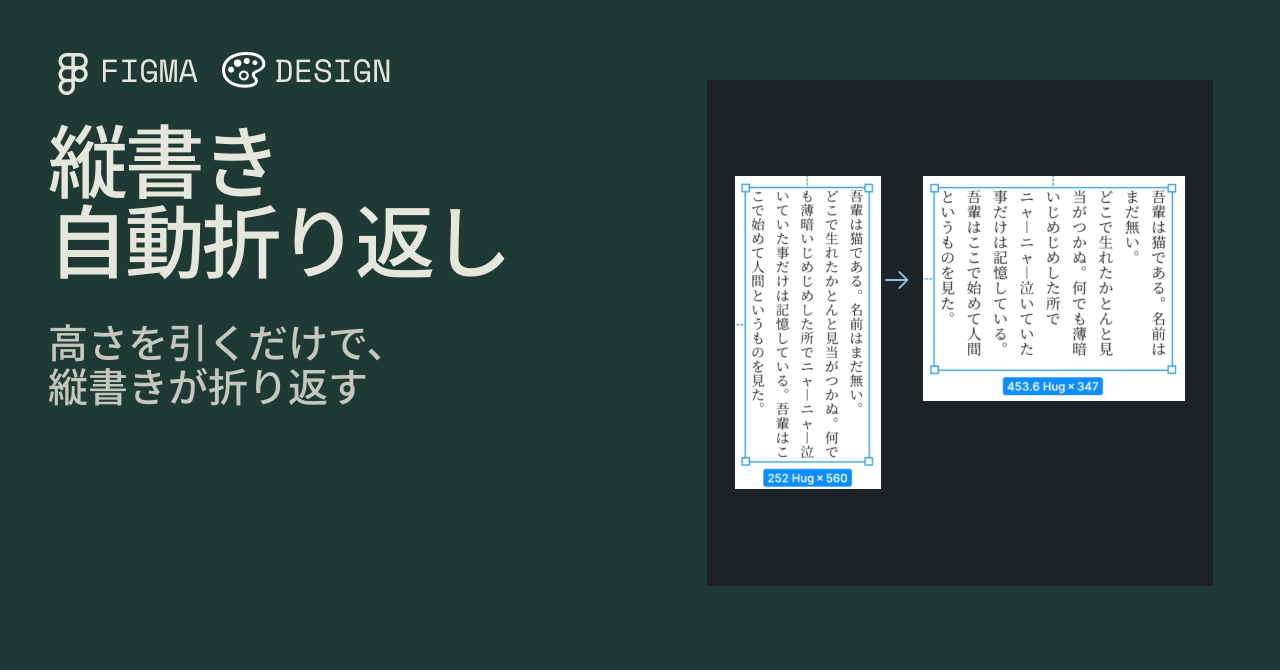
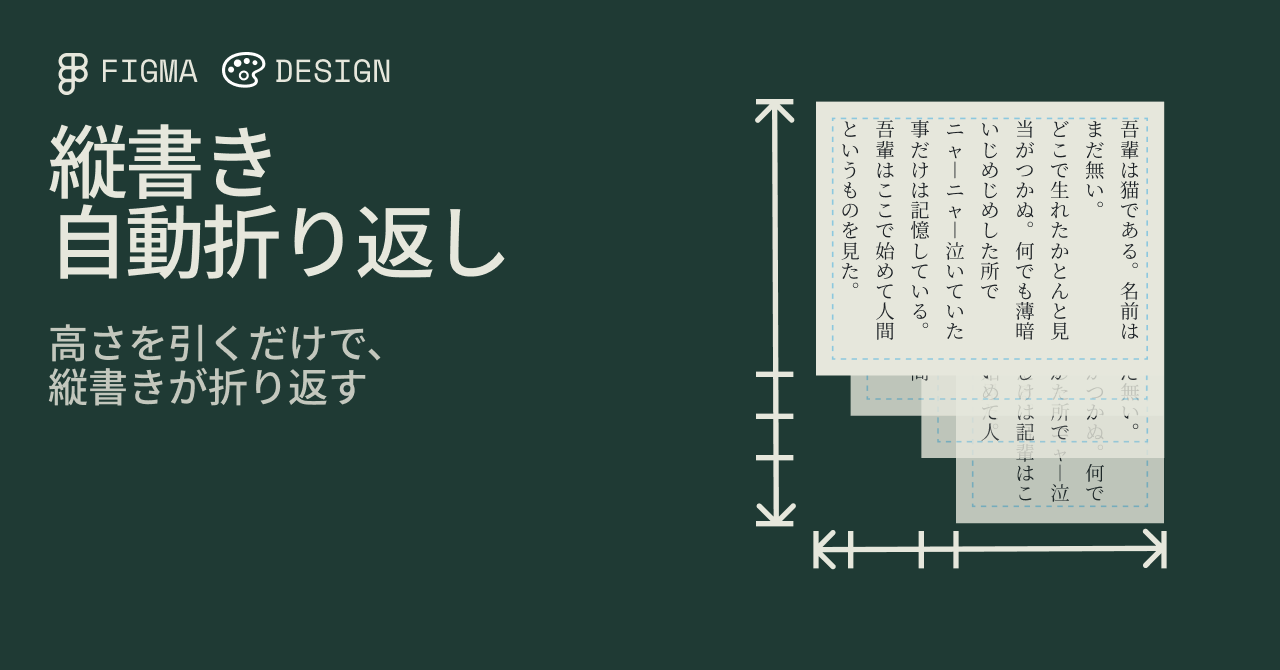
Demo video: captions in the current fonts; note covers in the chosen design
The caption cards now use Noto Sans JP Medium and Space Mono, the same as
the Figma Thumbnail v3 parts, instead of Baskerville and Hiragino Mincho.
Recordings, timings and layout are unchanged. The way to rebuild them
(captions.json, caption.html, make-video.py) now lives in
scripts/demo-video/; before, it only existed in another session's temp
folder. The videos themselves stay out of git.

The note / Substack header images (EN, JA) now use the picture from the
chosen Community cover (Figma 87:314, 87:415).

Changed region(s): [[0.5625, 0.1493, 0.9375, 0.8657]]

diff --git a/scripts/demo-video/caption.html b/scripts/demo-video/caption.html
@@ -1,0 +1,43 @@
+<!doctype html>
+<html lang="en"><head><meta charset="utf-8" />
+<title>demo video caption</title>
+<!-- One caption card for the demo video. Open as caption.html?lang=en&i=0 (lang = en | ja, i = index in captions.json).
+     Rendered at 3466x1710 (the recording size) with a transparent background, then overlaid by make-video.sh.
+     Fonts match the Figma Thumbnail v3 parts: Noto Sans JP Medium (text) and Space Mono (tag, step). -->
+<link rel="preconnect" href="https://fonts.googleapis.com" />
+<link rel="preconnect" href="https://fonts.gstatic.com" crossorigin />
+<link href="https://fonts.googleapis.com/css2?family=Noto+Sans+JP:wght@400;500&family=Space+Mono&display=block" rel="stylesheet" />
+<style>
+  * { box-sizing: border-box; margin: 0; }
+  html { zoom: 2; }
+  html, body { width: 1733px; height: 855px; background: transparent; }
+  body { position: relative; color: #E6E7DC; font-family: 'Noto Sans JP', sans-serif; font-weight: 500; }
+  /* chalkboard green #1F3A34, paper #E6E7DC, rule blue #8CC8DF */
+  .box { position: absolute; left: 585px; bottom: 54px; width: 1040px; background: rgba(31, 58, 52, .96); border-top: 2px solid #8CC8DF; padding: 24px 40px 30px; }
+  .top { display: flex; align-items: baseline; gap: 18px; }
+  .chip { font-family: 'Space Mono', monospace; font-weight: 400; font-size: 16px; letter-spacing: .08em; text-transform: uppercase; opacity: .75; }
+  .name { font-size: 30px; line-height: 1.2; letter-spacing: -.02em; }
+  .step { margin-left: auto; font-family: 'Space Mono', monospace; font-weight: 400; font-size: 18px; opacity: .7; }
+  .en { margin-top: 14px; font-size: 40px; line-height: 1.3; letter-spacing: -.02em; }
+  .ja { margin-top: 8px; font-size: 24px; line-height: 1.45; opacity: .8; }
+</style></head>
+<body>
+<div class="box">
+  <div class="top"><span class="chip">Figma plugin</span><span class="name">Vertical Japanese Text</span><span class="step" id="step"></span></div>
+  <div class="en" id="en"></div>
+  <div class="ja" id="ja"></div>
+</div>
+<script>
+  (async () => {
+    const q = new URLSearchParams(location.search);
+    const lang = q.get('lang') || 'en', i = Number(q.get('i') || 0);
+    const data = await (await fetch('captions.json')).json();
+    const set = data[lang], c = set.captions[i];
+    document.getElementById('en').textContent = c.en;
+    document.getElementById('ja').textContent = c.ja;
+    document.getElementById('step').textContent = c.step ? `${c.step} / ${set.steps}` : '';
+    await document.fonts.ready;
+    document.body.dataset.ready = '1';
+  })();
+</script>
+</body></html>

diff --git a/scripts/demo-video/make-video.py b/scripts/demo-video/make-video.py
@@ -1,0 +1,36 @@
+"""Overlay the caption cards on a demo recording (the recording itself is not changed).
+
+usage: python3 make-video.py <en|ja> <captions dir> <output.mp4>
+
+<captions dir> holds cap1.png, cap2.png, ... rendered from caption.html (3466x1710, transparent).
+Timings, texts and the source recording come from captions.json next to this file.
+"""
+import json
+import os
+import subprocess
+import sys
+
+lang, cap_dir, out = sys.argv[1], sys.argv[2], sys.argv[3]
+here = os.path.dirname(os.path.abspath(__file__))
+spec = json.load(open(os.path.join(here, 'captions.json')))[lang]
+src = os.path.expanduser(spec['source'])
+caps = spec['captions']
+
+cmd = ['ffmpeg', '-v', 'error', '-y', '-i', src]
+parts, chain = [], []
+for n, c in enumerate(caps, start=1):
+    d = round(c['end'] - c['start'], 2)
+    cmd += ['-framerate', '60', '-loop', '1', '-t', str(d), '-i', os.path.join(cap_dir, f'cap{n}.png')]
+    # fade each card in and out over 0.4 s, and shift it to its start time
+    parts.append(f'[{n}:v]format=rgba,fade=t=in:st=0:d=0.4:alpha=1,'
+                 f'fade=t=out:st={round(d - 0.4, 2)}:d=0.4:alpha=1,setpts=PTS+{c["start"]}/TB[c{n}]')
+prev = '0:v'
+for n in range(1, len(caps) + 1):
+    chain.append(f'[{prev}][c{n}]overlay=0:0:eof_action=pass[v{n}]')
+    prev = f'v{n}'
+filt = ';'.join(parts + chain) + f';[{prev}]format=yuv420p[v]'
+cmd += ['-filter_complex', filt, '-map', '[v]', '-an', '-c:v', 'libx264', '-crf', '20',
+        '-preset', 'medium', '-r', '60', '-movflags', '+faststart', out]
+r = subprocess.run(cmd, capture_output=True, text=True)
+print('exit', r.returncode, r.stderr[-400:])
+sys.exit(r.returncode)

diff --git a/scripts/demo-video/README.md b/scripts/demo-video/README.md
@@ -1,0 +1,31 @@
+# デモ動画のキャプション / Demo video captions
+
+デモ動画（英語版・日本語版）は、画面の録画にキャプションの帯を重ねて作る。録画そのものは変えない。<br>
+The demo videos (EN and JA) are screen recordings with caption cards overlaid. The recordings themselves are not changed.
+
+| ファイル / File | 中身 / Contents |
+|---|---|
+| `captions.json` | 元の録画、出力のファイル名、各キャプションの時刻と文言（英・日）。<br>Source recording, output name, and each caption's timing and text. |
+| `caption.html` | キャプション 1 枚。`caption.html?lang=en&i=0` で開くと、`captions.json` の文言が入る。<br>One caption card; `?lang=en&i=0` fills it from `captions.json`. |
+| `make-video.py` | キャプションの PNG を、時刻どおりに録画へ重ねる（0.4 秒のフェード）。<br>Overlays the caption PNGs on the recording at their times (0.4 s fades). |
+
+## 書体 / Fonts
+Figma の部品（Thumbnail v3）と同じ。本文は Noto Sans JP Medium、タグ「FIGMA PLUGIN」と「1 / 6」は Space Mono。この Mac には入っていないので、`caption.html` は Google Fonts から読み込む（撮るときにネットが要る）。<br>
+Same as the Figma Thumbnail v3 parts: Noto Sans JP Medium for text, Space Mono for the tag and step number. They are not installed on this Mac, so `caption.html` loads them from Google Fonts (network needed when rendering).
+
+## 作り直し方 / How to rebuild
+1. このフォルダを配信する（例: `python3 -m http.server 8765`）。`fetch('captions.json')` を使うので、ファイルを直接開くのでは動かない。<br>
+   Serve this folder (e.g. `python3 -m http.server 8765`); `caption.html` fetches `captions.json`, so `file://` does not work.
+2. ブラウザで 3466×1710 のビューポートにして、各キャプションを背景を透明にして撮る（Playwright なら `page.screenshot({ omitBackground: true })`）。英語は 7 枚、日本語は 5 枚。`out/captions/en/cap1.png …` のように保存する。<br>
+   Render each card at a 3466x1710 viewport with a transparent background (Playwright: `omitBackground: true`): 7 for EN, 5 for JA, saved as `out/captions/en/cap1.png …`.
+3. 重ねる。<br>
+   Overlay:
+   ```
+   python3 scripts/demo-video/make-video.py en out/captions/en "out/Vertical Japanese Text demo - EN panel.mp4"
+   python3 scripts/demo-video/make-video.py ja out/captions/ja "out/Vertical Japanese Text demo - JA panel.mp4"
+   ```
+4. できた動画を `assets/publish/` に置く（git には入れない）。<br>
+   Put the videos in `assets/publish/` (not tracked by git).
+
+録画を撮り直したら、`captions.json` の時刻を合わせ直す。<br>
+If the recording is redone, re-time `captions.json`.

diff --git a/lessons.md b/lessons.md
@@ -52,3 +52,8 @@
 
 ## 動画からコマを切り出すときは、動画の更新時刻を先に見る（2026-11-13）
 - 11/5 にコマを切り出した後、同じ名前の動画がキャプションの色を変えて書き出し直されていた。時間が空いたら、`ls -la` で動画の更新時刻を確かめてから使う。画面と時刻が同じでも、カーソルの位置は少しずれるので、0.1 秒刻みで並べて選び直す。
+
+
+## 画像や動画の作り方は、一時フォルダでなくリポジトリに残す（2026-11-14）
+- デモ動画のキャプションを作り直そうとしたら、作り方（HTML と ffmpeg の手順）が別セッションの `~/.claude/jobs/<id>/tmp/` にしか無く、リポジトリには何も残っていなかった。見つかったのは偶然。作った手順は `scripts/` に入れる（今は `scripts/demo-video/`）。
+- Figma で使っている Noto Sans JP・Space Mono は、この Mac には入っていない（Figma は自前でフォントを出す）。ブラウザで撮る HTML は Google Fonts から読み込み、`document.fonts.check()` で読み込めたか確かめてから撮る。

diff --git a/assets/README.md b/assets/README.md
@@ -16,7 +16,8 @@ Built with the Thumbnail v3 components; the layout comes from the past example (
 
 | 画像 / Image | ノード / Node |
 |---|---|
-| cover EN / JA (1280×670) | `59:166` / `59:288` |
+| note / Substack cover EN / JA (1280×670, `note/`) | `87:314` / `87:415`（77:1402 と同じ絵 / same picture as 77:1402） |
+| cover EN / JA (1280×670, old) | `59:166` / `59:288` |
 | carousel 1〜3, EN (1280×670) | `60:179`, `60:373`, `60:529` |
 | carousel 1〜3, JA (1280×670) | `60:276`, `60:451`, `60:599` |
 | Community cover 1920×960（採用 / chosen, 2026-11-14） | `77:1402` |
